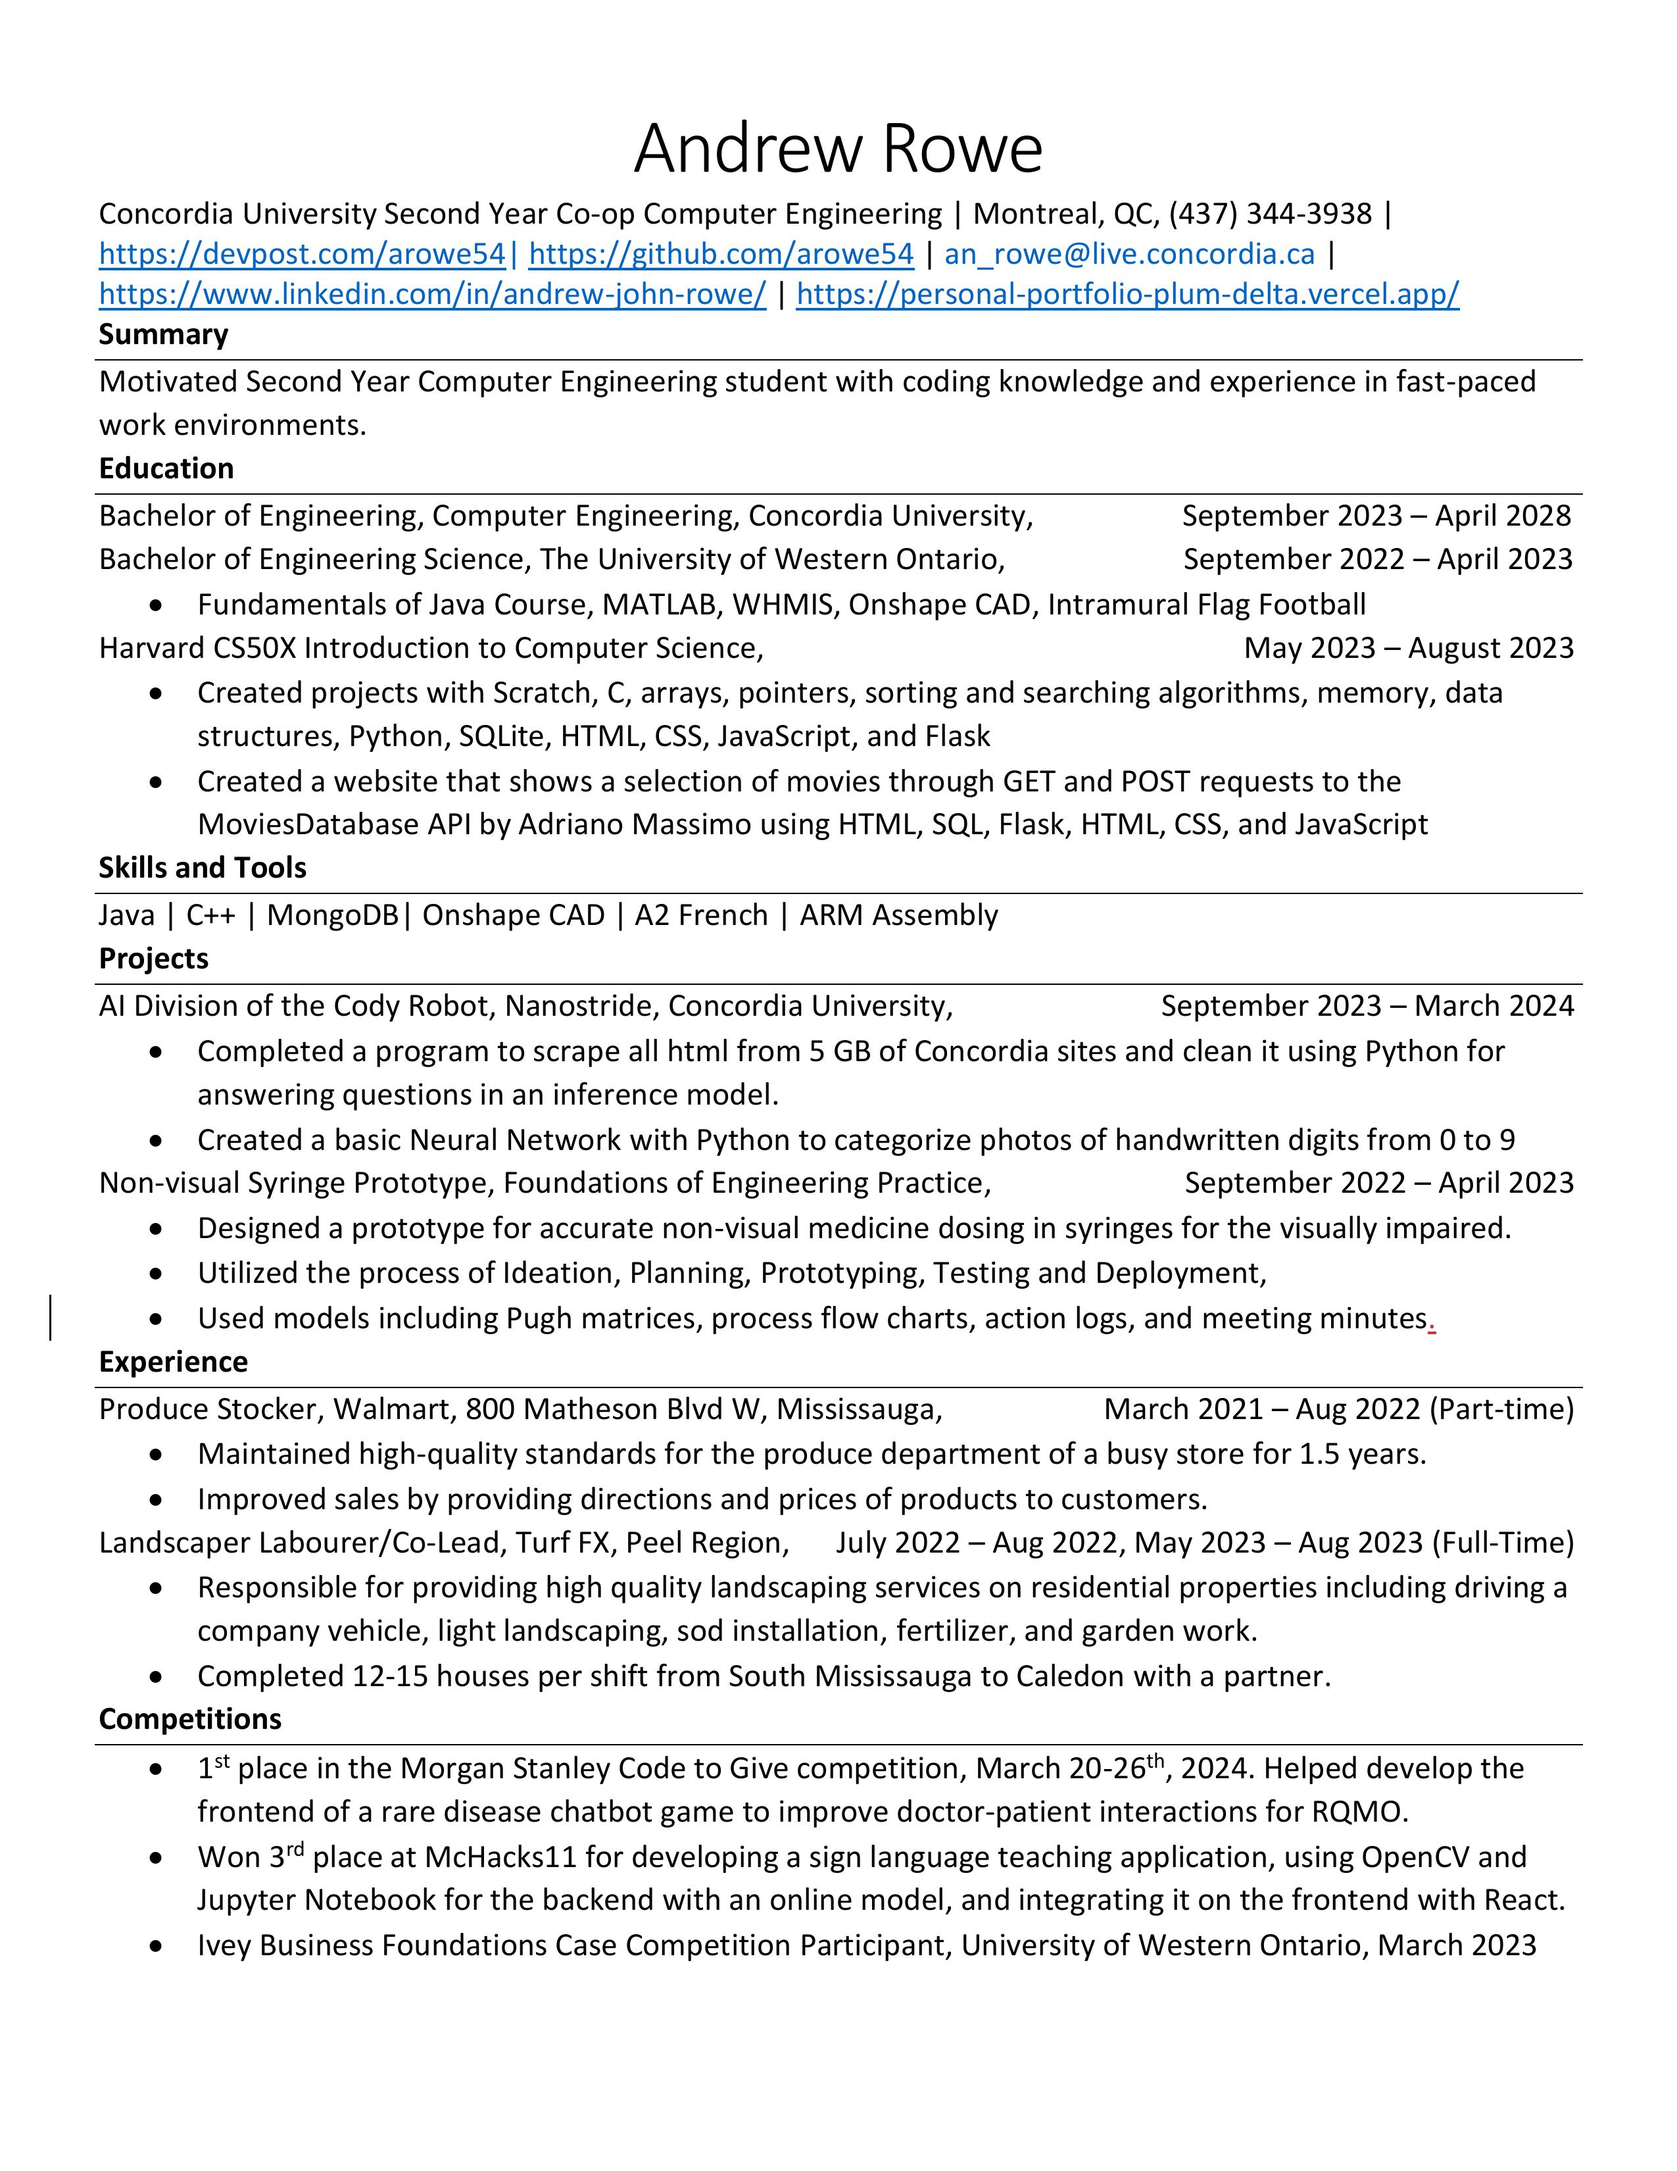
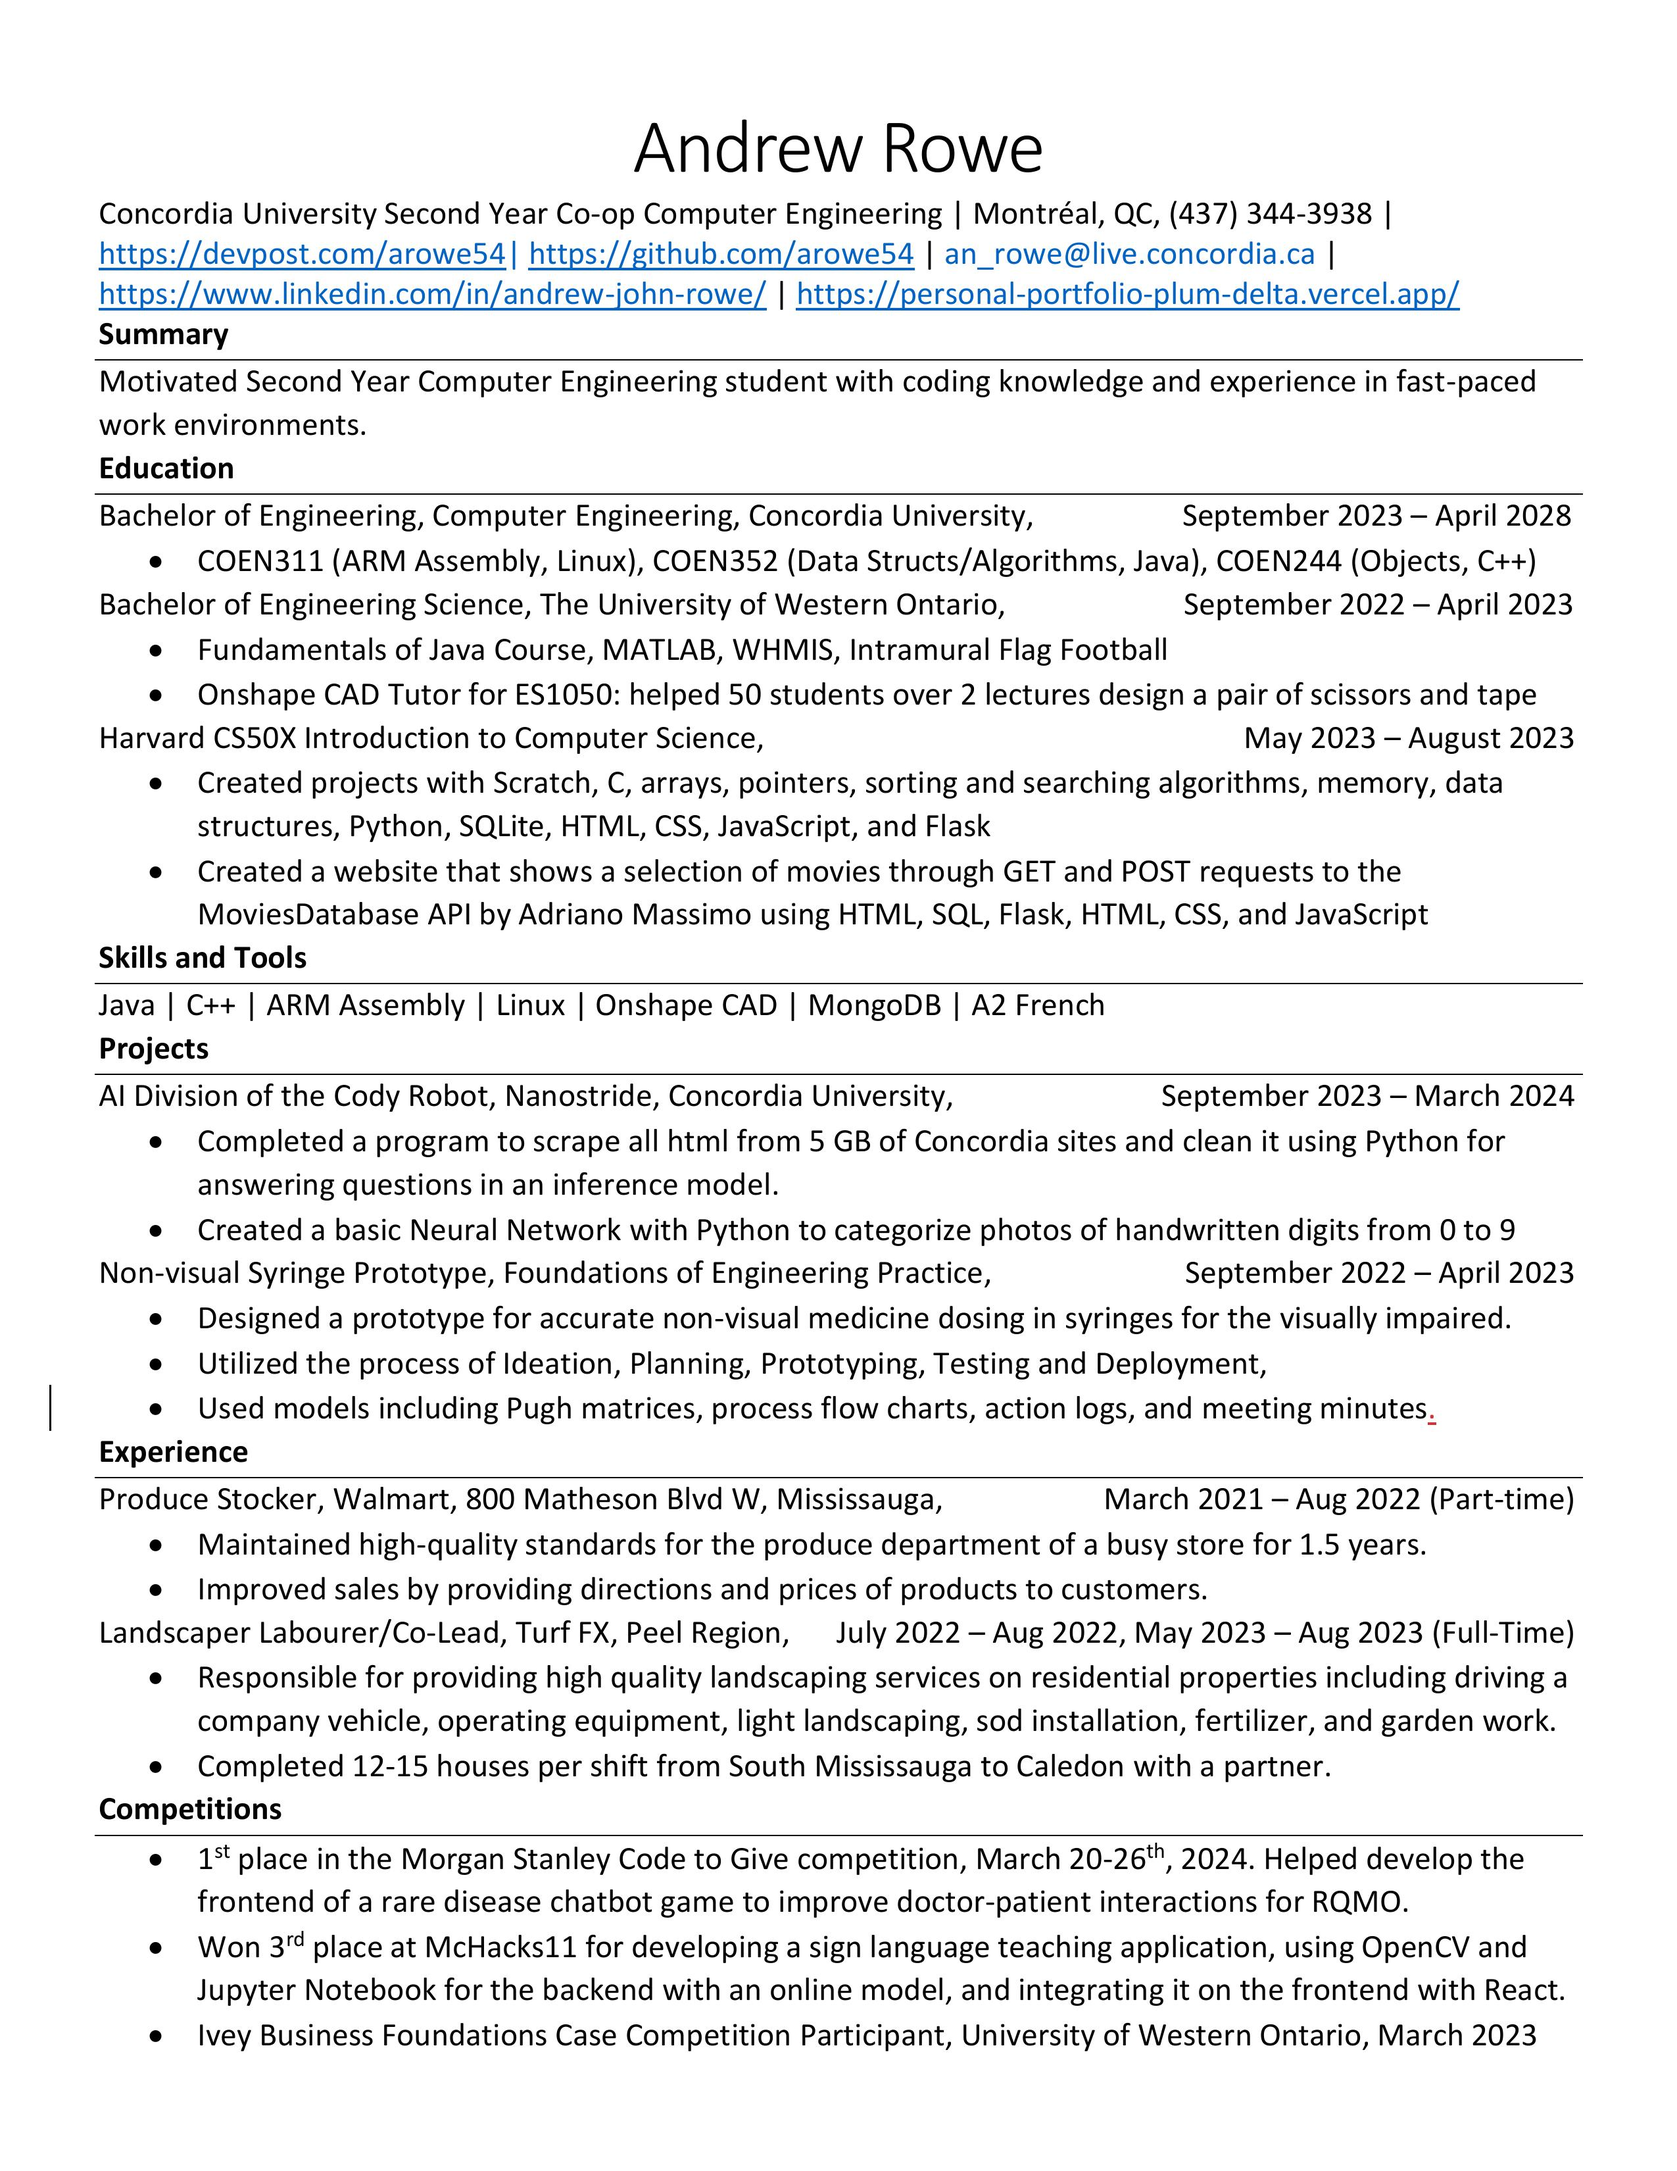
Update "About Me" section and Resume

Changed region(s): [[0.062, 0.2497, 0.9294, 0.9364]]

diff --git a/index.html b/index.html
@@ -28,9 +28,9 @@
                 <h2>About Me</h2>
                 <img src="static/Andrew2.png" alt="Self Portrait">
                 <p>
-                    I am a second-year co-op computer engineering student at Concordia University.
-                    I completed my first year in general engineering at Western University. I have intermediate knowledge in Java, C++, ARM assembly, and object-oriented principles from university courses.
-                    I also have basic knowledge in Python and React from hackathons. I am interested in micro-controllers, micro-processors, video games, and the cloud.
+                    I am a second-year co-op Computer Engineering student at Concordia University.
+                    I completed my first year in General Engineering at Western University. I have intermediate knowledge in Java, C++, ARM Assembly, and object-oriented principles from university courses.
+                    I also have basic knowledge in Python and React from hackathons. I am interested in embedded systems, micro-controllers, micro-processors, video games, and the cloud.
                 </p>
 
                 <h3>Fun Facts</h3>
@@ -60,7 +60,7 @@
                     <p>
                         Helped create the frontend of a chatbot game to improve doctor and patient interactions for people with rare diseases.
                         Worked in a group of 7 Concordia students, including 6 master's students, over one week online through Stack.
-                        Used Ideation, Planning, Prototyping, Testing, and Deployment under the supervision of two Morgan Stanley employees.
+                        Worked under the supervision of two Morgan Stanley employees.
                     </p>
                     <p>
                         <a href="https://galactic-healer.vercel.app/">Demo: Galactic Healer: https://galactic-healer.vercel.app/</a>
